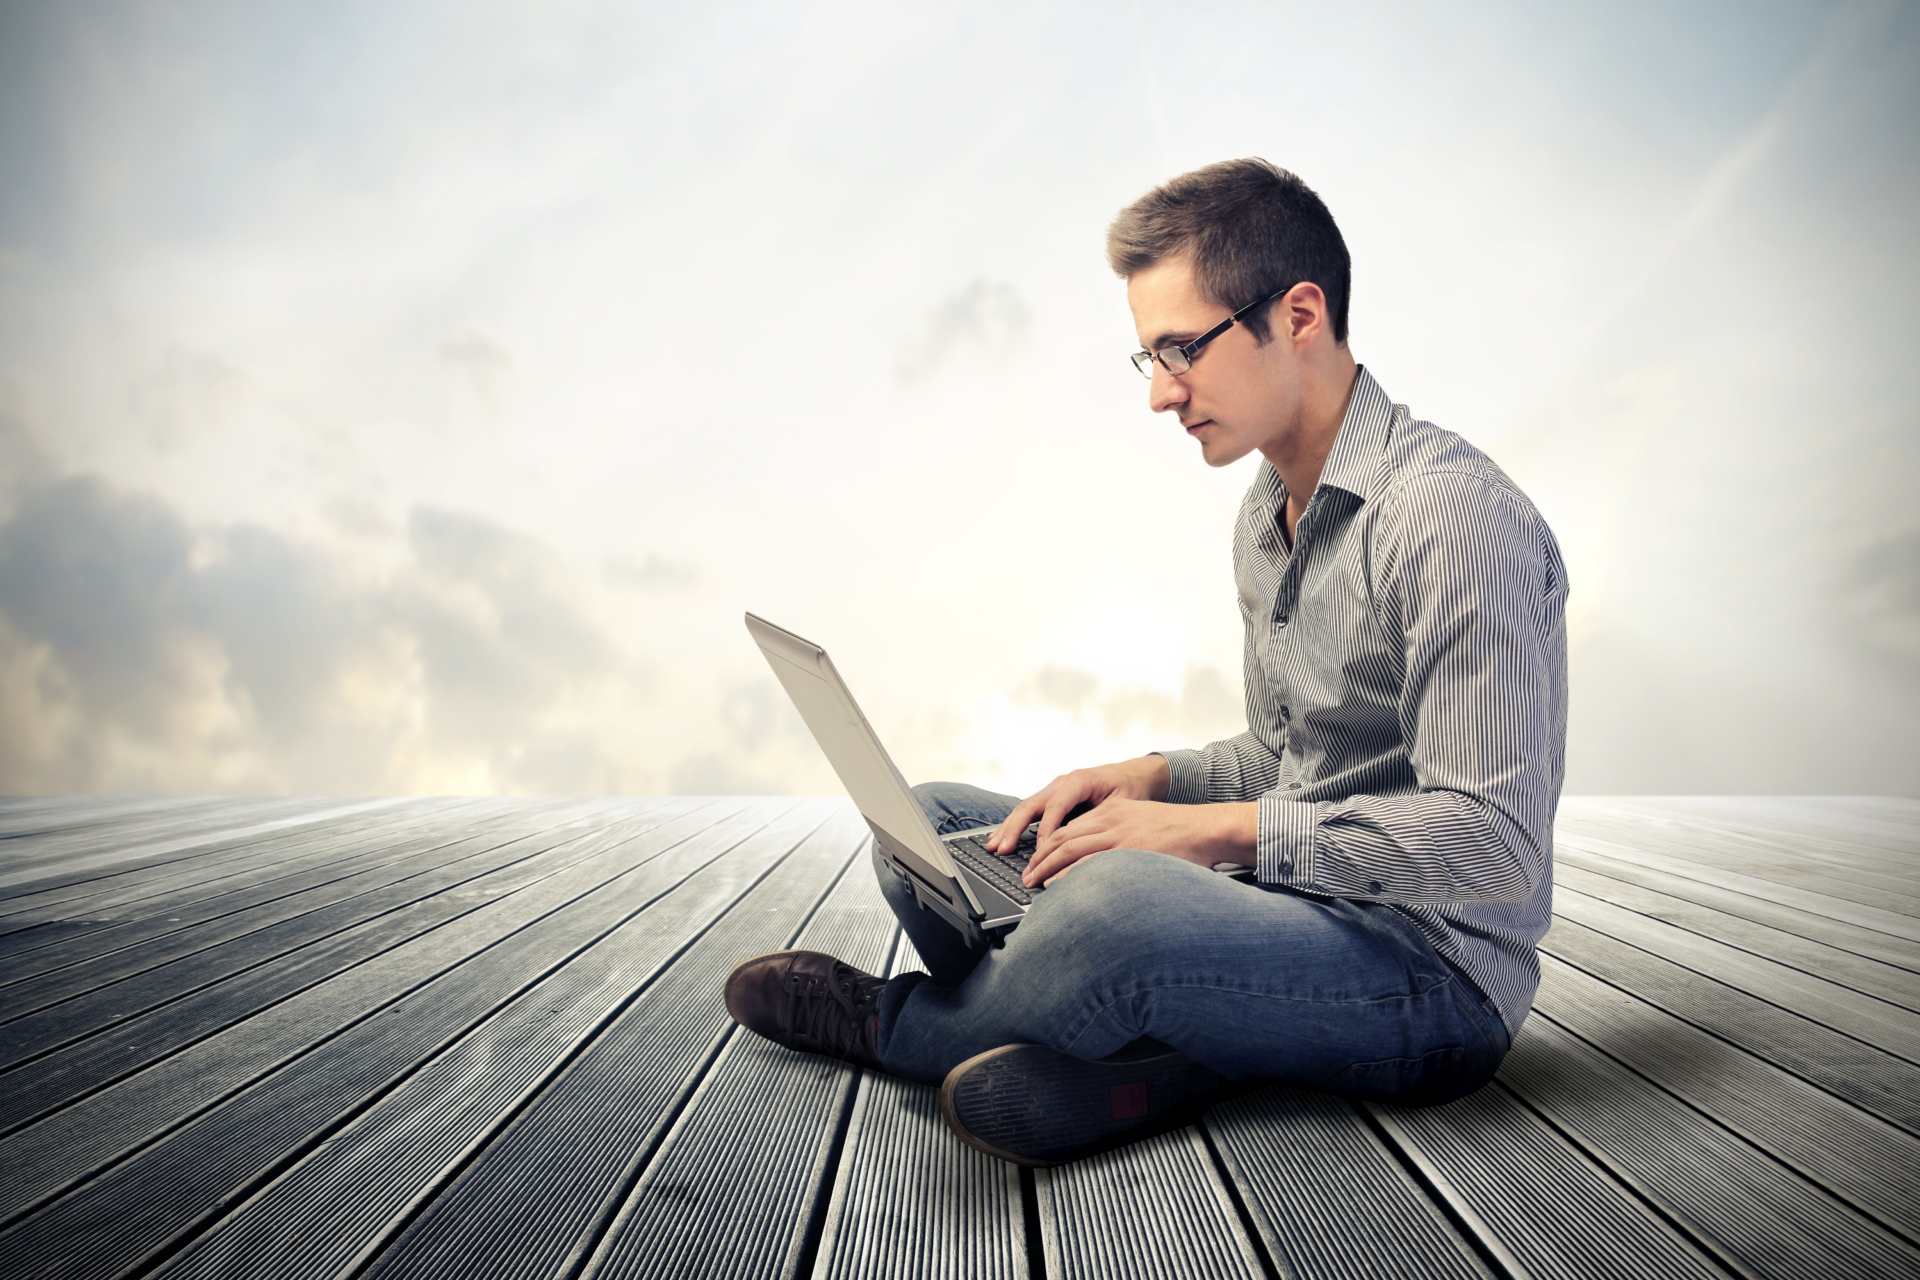
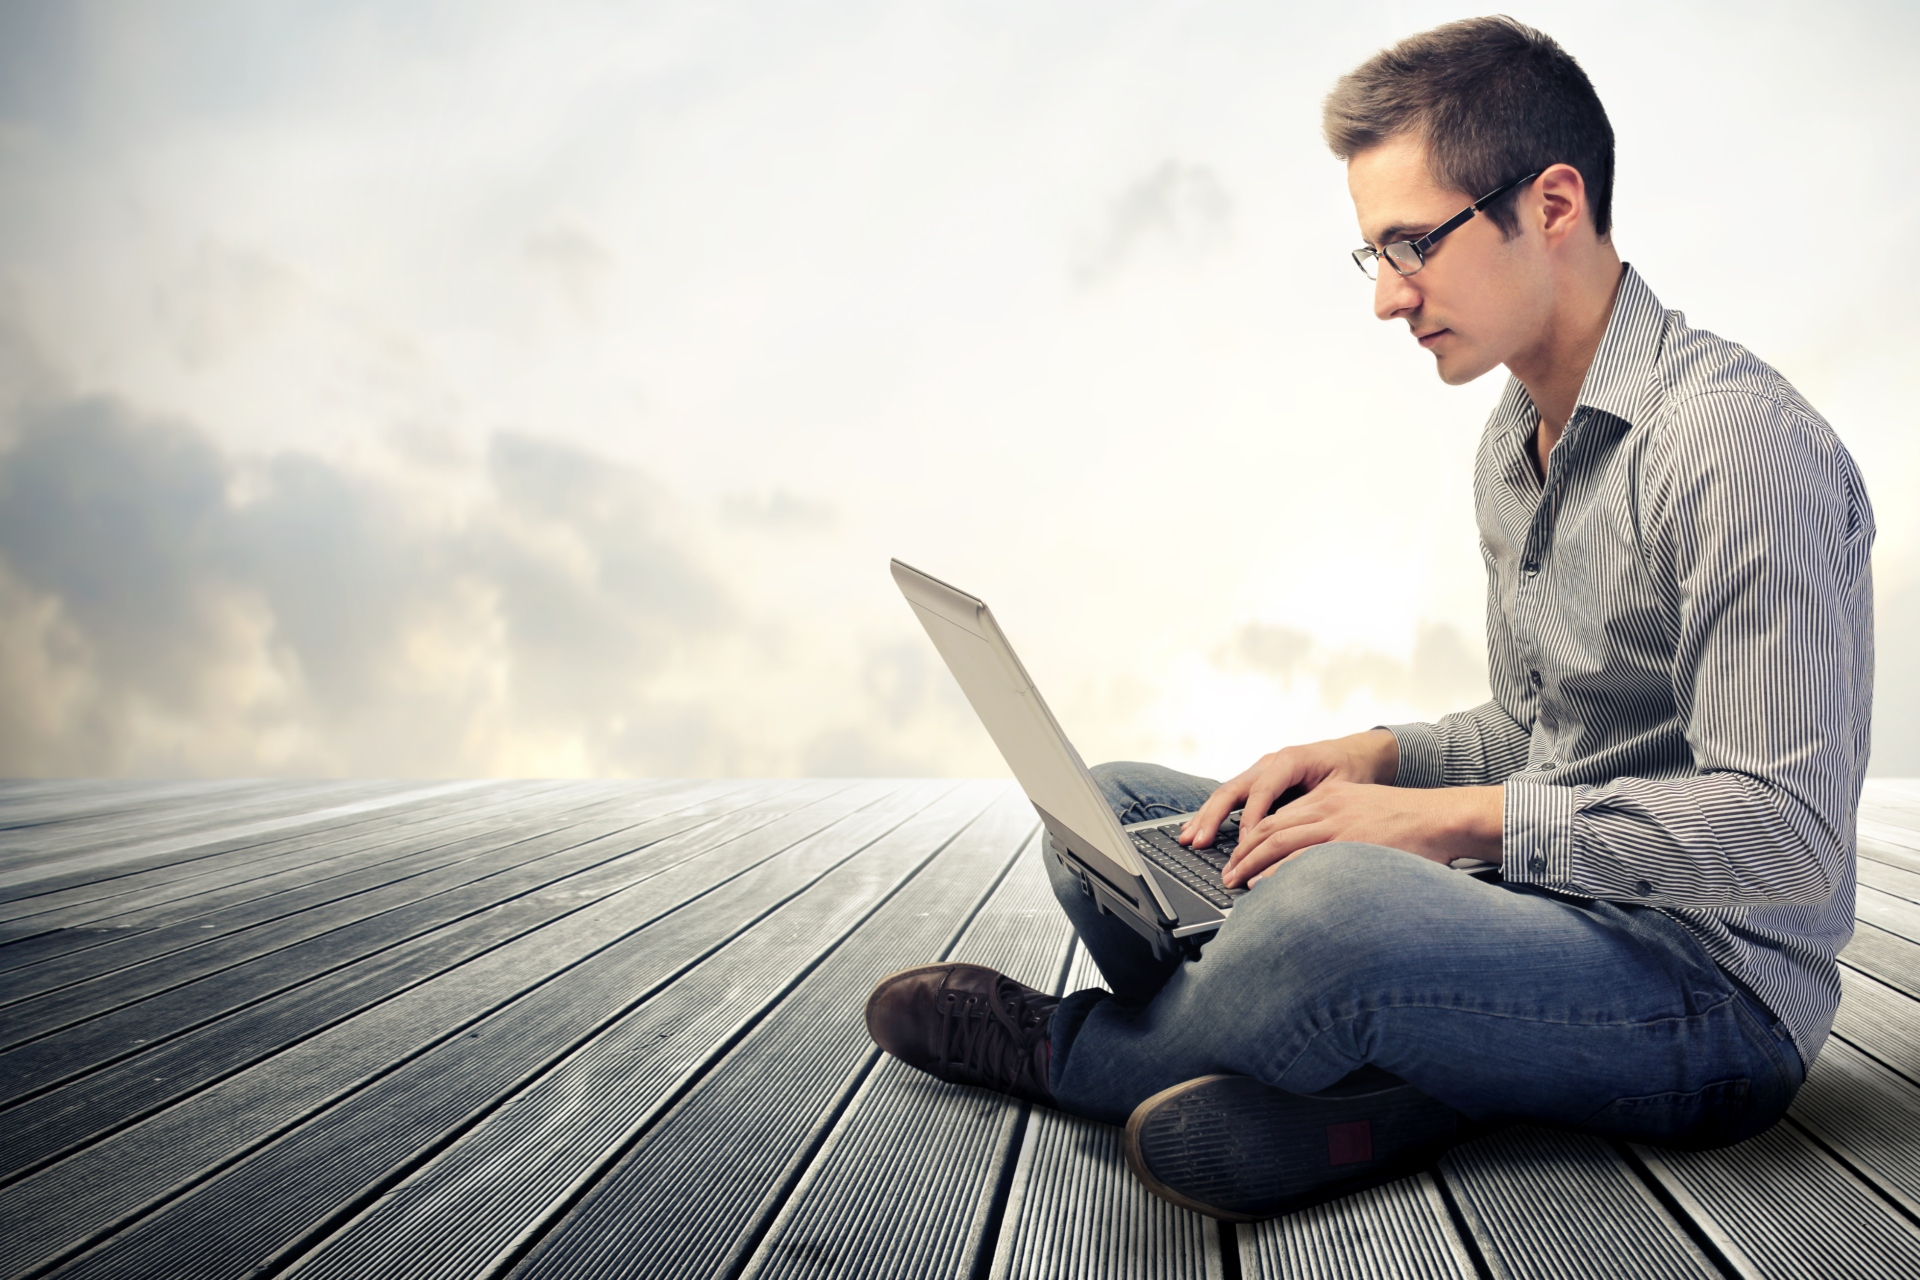
Adjusting img placement and sizing

diff --git a/css/landing.css b/css/landing.css
@@ -30,9 +30,9 @@ width:100%;
 -o-background-size:cover;
 -webkit-background-size:cover;
 background-color:#222;
-background: -webkit-linear-gradient(rgba(0,0,0,0.5),rgba(0,0,0,0.5)), url('http://s7.postimg.org/yiefy0nkr/image.jpg');
-background:    -moz-linear-gradient(rgba(0,0,0,0.5),rgba(0,0,0,0.5)), url('http://s7.postimg.org/yiefy0nkr/image.jpg');
-background:         linear-gradient(rgba(0,0,0,0.5),rgba(0,0,0,0.5)), url('http://s7.postimg.org/yiefy0nkr/image.jpg');
+background: -webkit-linear-gradient(rgba(0,0,0,0.5),rgba(0,0,0,0.5)), url("http://s12.postimg.org/61a0hibb1/image.jpg");
+background:    -moz-linear-gradient(rgba(0,0,0,0.5),rgba(0,0,0,0.5)), url("http://s12.postimg.org/61a0hibb1/image.jpg");
+background:         linear-gradient(rgba(0,0,0,0.5),rgba(0,0,0,0.5)), url("http://s12.postimg.org/61a0hibb1/image.jpg");
 background-size: cover;
 background-repeat:no-repeat;
 }
@@ -64,7 +64,7 @@ margin-top:40px;
 }
 
 .masthead h1 {
-font-family:"news-gothic-std", helvetica, arial, sans-serif;
+font-family:helvetica, arial, sans-serif;
 font-size:90px;
 font-weight:700;
 letter-spacing:-2px;
@@ -171,13 +171,13 @@ border:1px solid #fff;
 border-radius:4px;
 box-shadow:none;
 color:#222;
-font-size:15px;
+font-size:14px;
 margin-bottom:20px;
 margin-right:20px;
 text-shadow:none;
 text-transform: uppercase;
 width:160px;
-font-family: "proxima-nova", helvetica, arial, sans-serif;
+font-family: helvetica, arial, sans-serif;
 }
 
 .btn-info:hover,
@@ -189,13 +189,13 @@ border:1px solid #fff;
 border-radius:4px;
 box-shadow:none;
 color:#222;
-font-size:15px;
+font-size:14px;
 margin-bottom:20px;
 margin-right:20px;
 text-shadow:none;
 text-transform: uppercase;
 width:160px;
-font-family: "proxima-nova", helvetica, arial, sans-serif;
+font-family: helvetica, arial, sans-serif;
 }
 
 .btn-primary {
@@ -222,13 +222,13 @@ border:1px solid #fff;
 border-radius:4px;
 box-shadow:none;
 color:#222;
-font-size:15px;
+font-size:14px;
 margin-bottom:20px;
 margin-right:20px;
 text-shadow:none;
 text-transform: uppercase;
 width:160px;
-font-family: "proxima-nova", helvetica, arial, sans-serif;
+font-family: helvetica, arial, sans-serif;
 }
 
 /*-- Toggle --*/
